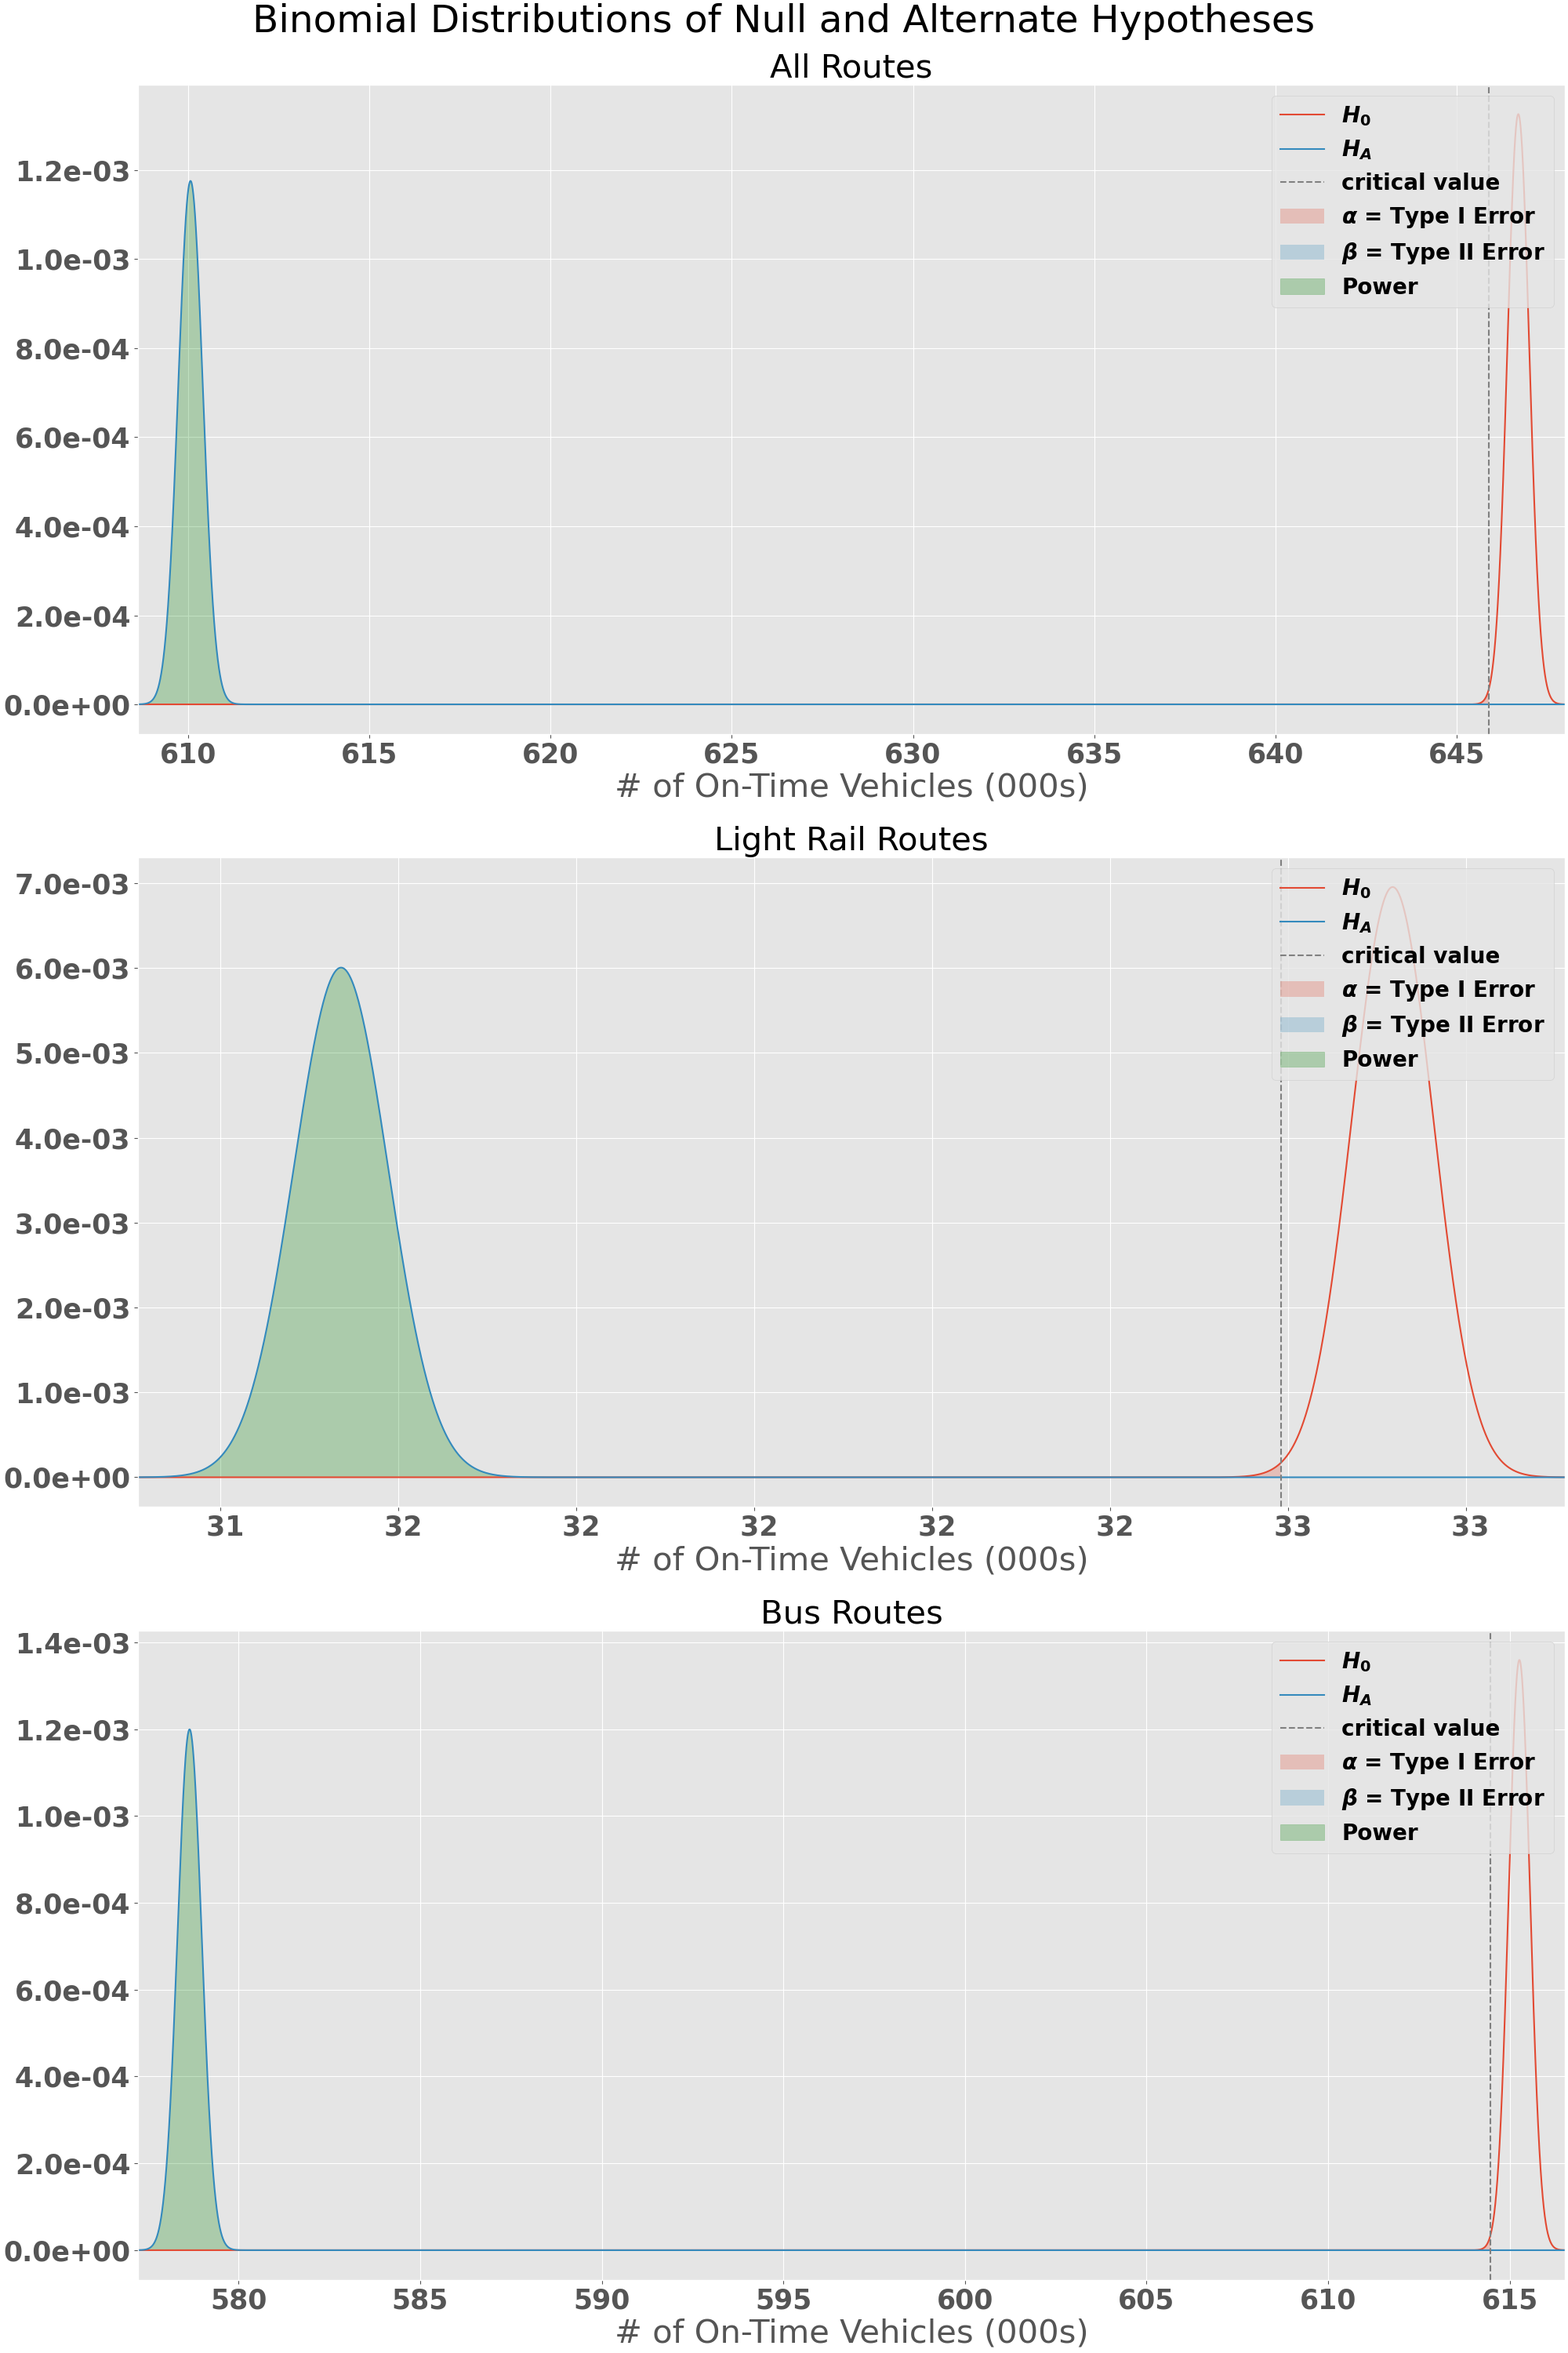
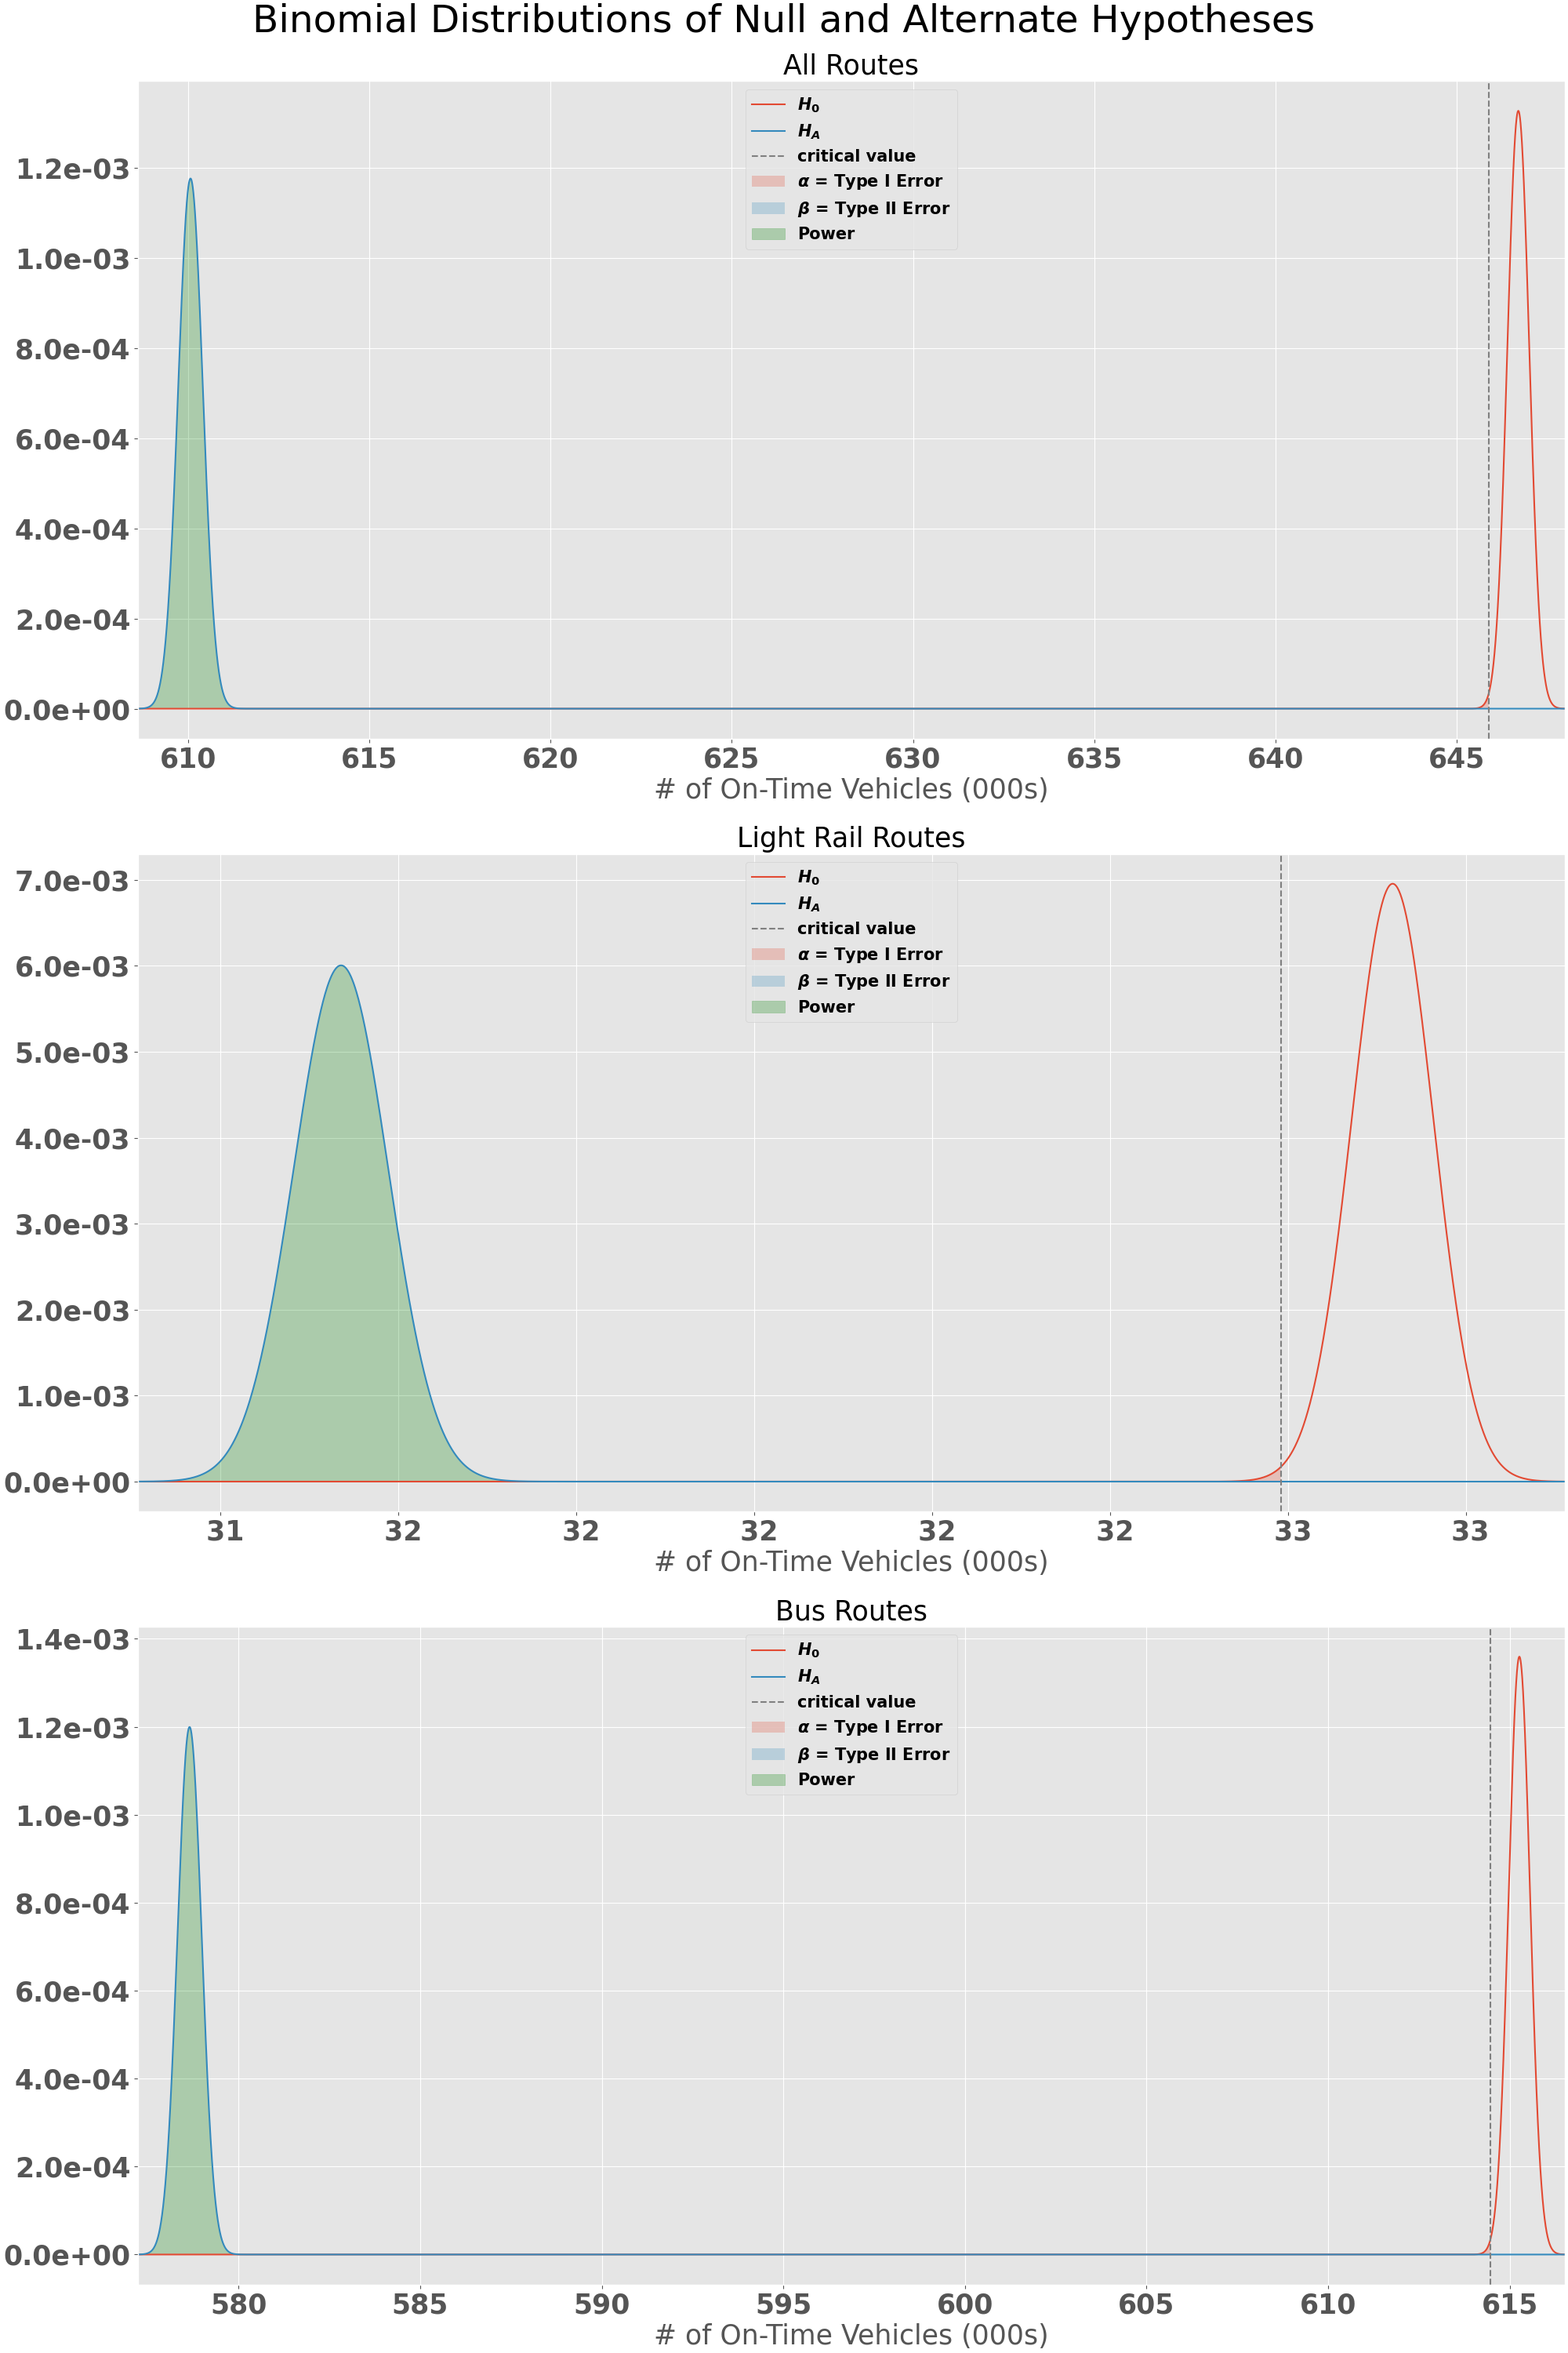
Updated modified alt function to take in a specific null prob value based on other factors.

diff --git a/src/analyze_rtd_data.py b/src/analyze_rtd_data.py
@@ -53,15 +53,32 @@ class RTD_analyze(object):
         self.ontime_stops = sum(self.data.departure_status == 'on_time')
         self.ontime_departure_rate = self.ontime_stops / self.total_stops
 
+    def calculate_p_null(self, alpha):
+        n = self.total_stops
+        p_alt = self.ontime_departure_rate
+        p_null = np.linspace(p_alt, p_alt + 0.1, 100000)
+        alpha = alpha
+        
+        alt_dist = stats.binom(n, p_alt)
+
+        power_dict = {}
+
+        for p in p_null:
+            null_dist = stats.binom(n, p)
+            power_dict[p] = alt_dist.cdf(null_dist.ppf(alpha)) 
+
+        for k,v in power_dict.items():
+            if round(v, 2) == 0.80:
+                self.p_null = k
+        
+        return self.p_null
+
     def plot_null_hypothesis(self, ax, alpha_value, null_percent):
         def thousands(x, pos):
             'The two args are the value and tick position'
             return '%3.0f' % (x/1000)
 
-        if (self.route_type == 'All') & ~(self.route_label == 'All'): 
-            graph_fontsize = 25
-        else:
-            graph_fontsize = 30
+        graph_fontsize = 25
 
         null_dist = stats.binom(n=self.total_stops, p=null_percent)
         x = np.linspace(0, self.total_stops, self.total_stops+1)
@@ -87,15 +104,12 @@ class RTD_analyze(object):
         else:
             ax.set_title(f"{self.route_type.replace('_', ' ').title()} Routes", fontsize=graph_fontsize)
 
-    def plot_alt_hypothesis(self, ax, alpha_value, null_percent):
+    def plot_alt_hypothesis(self, ax, alpha_value, null_percent, legend_loc):
         def thousands(x, pos):
             'The two args are the value and tick position'
             return '%3.0f' % (x/1000)
         
-        if (self.route_type == 'All') & ~(self.route_label == 'All'): 
-            graph_fontsize = 25
-        else:
-            graph_fontsize = 30
+        graph_fontsize = 25
 
         null_dist = stats.binom(n=self.total_stops, p=null_percent)
         alt_dist = stats.binom(n=self.total_stops, p=self.ontime_departure_rate)
@@ -120,8 +134,8 @@ class RTD_analyze(object):
                        ,where= (x < null_dist.ppf(alpha_value))
                        ,alpha=0.25
                        ,color='Green'
-                       ,label='Power')
-        ax.legend(loc='upper right', fontsize=graph_fontsize-10)
+                       ,label='Power') 
+        ax.legend(loc=legend_loc, fontsize=graph_fontsize-10)
         ax.set_xlabel(f"# of On-Time Vehicles (000s)", fontsize=graph_fontsize)
         if (self.route_type == 'All') & ~(self.route_label == 'All'): 
             ax.set_title(f"{self.route_label} Route", fontsize=graph_fontsize)
@@ -169,17 +183,17 @@ if __name__ == '__main__':
     # Original Alt Hypothesis
     fig, axs = plt.subplots(3,1,figsize=set_figsize, constrained_layout=True)
     
-    all_routes.plot_alt_hypothesis(ax=axs[0], alpha_value=alpha_value, null_percent=0.86)
-    light_rail.plot_alt_hypothesis(ax=axs[1], alpha_value=alpha_value, null_percent=0.90)
-    bus.plot_alt_hypothesis(ax=axs[2], alpha_value=alpha_value, null_percent=0.86)
+    all_routes.plot_alt_hypothesis(ax=axs[0], alpha_value=alpha_value, null_percent=0.86, legend_loc='upper center')
+    light_rail.plot_alt_hypothesis(ax=axs[1], alpha_value=alpha_value, null_percent=0.90, legend_loc='upper center')
+    bus.plot_alt_hypothesis(ax=axs[2], alpha_value=alpha_value, null_percent=0.86, legend_loc='upper center')
     fig.suptitle(f"Binomial Distributions of Null and Alternate Hypotheses"
                 ,fontsize=set_fontsize)
     plt.savefig(f"images/original_alt_hypothesis.png")
 
     # Modified Null Hypothesis
-    all_routes_null_p = 0.813
-    light_rail_null_p = 0.868
-    bus_null_p = 0.81
+    all_routes_null_p = all_routes.calculate_p_null(alpha_value)
+    light_rail_null_p = light_rail.calculate_p_null(alpha_value)
+    bus_null_p = bus.calculate_p_null(alpha_value)
 
     fig, axs = plt.subplots(3,1,figsize=set_figsize, constrained_layout=True)
     
@@ -193,9 +207,9 @@ if __name__ == '__main__':
     # Modified Alt Hypothesis
     fig, axs = plt.subplots(3,1,figsize=set_figsize, constrained_layout=True)
     
-    all_routes.plot_alt_hypothesis(ax=axs[0], alpha_value=alpha_value, null_percent=all_routes_null_p)
-    light_rail.plot_alt_hypothesis(ax=axs[1], alpha_value=alpha_value, null_percent=light_rail_null_p)
-    bus.plot_alt_hypothesis(ax=axs[2], alpha_value=alpha_value, null_percent=bus_null_p)
+    all_routes.plot_alt_hypothesis(ax=axs[0], alpha_value=alpha_value, null_percent=all_routes_null_p, legend_loc='upper right')
+    light_rail.plot_alt_hypothesis(ax=axs[1], alpha_value=alpha_value, null_percent=light_rail_null_p, legend_loc='upper right')
+    bus.plot_alt_hypothesis(ax=axs[2], alpha_value=alpha_value, null_percent=bus_null_p, legend_loc='upper right')
     fig.suptitle(f"Binomial Distributions of Null and Alternate Hypotheses"
                 ,fontsize=set_fontsize)
     plt.savefig(f"images/modified_alt_hypothesis.png")
@@ -204,7 +218,6 @@ if __name__ == '__main__':
     top_10_routes = list(all_routes.data.groupby('route_short_name').size().sort_values(ascending=False)[0:10].index)
     alpha_value = 0.01/10
     set_figsize = (15,70)
-    set_fontsize = 25
     plt.rc('xtick',labelsize=15)
     plt.rc('ytick',labelsize=15)
    
@@ -224,7 +237,10 @@ if __name__ == '__main__':
     for idx, route in enumerate(top_10_routes):
         route_data = RTD_analyze(rtd_data, route_label=route)
         route_data.calculate_ontime_departure()
-        route_data.plot_alt_hypothesis(ax=axs[idx], alpha_value=alpha_value, null_percent=0.86)
+        if route == '40':
+            route_data.plot_alt_hypothesis(ax=axs[idx], alpha_value=alpha_value, null_percent=0.86, legend_loc='upper right')
+        else:
+            route_data.plot_alt_hypothesis(ax=axs[idx], alpha_value=alpha_value, null_percent=0.86, legend_loc='upper center')
     
     fig.suptitle(f"Binomial Distributions of Null and Alternate Hypotheses"
                 ,fontsize=set_fontsize)

diff --git a/README.md b/README.md
@@ -8,11 +8,12 @@ The mission of Denver's Regional Transportation District (RTD) is to **provide c
 
 I would like to investigate whether or not they are still meeting this goal and what lines/routes have a higher or lower on-time performance than the entire system as whole. My hypotheses will be:
 
-* $\large H_0 \large$: RTD's Local On-Time Service >= 86%
-* $\large H_A \large$: RTD's Local On-TIme Service < 86%
+$$\large H_0 \text{: RTD's Local On-Time Service >= 86\%} $$
+$$\large H_A \text{: RTD's Local On-TIme Service < 86\%} $$
 
 ## Dataset
 ---
+### GTFS-RT
 My dataset is pulled from [RTD's Public GTFS-RT (General Transit Feed Specification - Realtime Transit) feeds](https://www.rtd-denver.com/business-center/open-spacial-data/gtfs-rt). There are 3 feeds in RTD's GTFS-RT data:
 1. **Alerts**: This feed includes alerts about unforeseen events like route disruptions and stop closures.
 2. **Trips**: This feed includes trip progress and arrival/departure predictions including delays, cancellations, or changed routes.
@@ -177,11 +178,11 @@ For each of our experiments, you can also see that the alternate hypothesis dist
 
 
 ### Modified Null Hypotheses
-Since there is such a drastic difference between the 2019Q3 goal and current state, it might be better to estimate what would be a good goal for RTD to set for their routes? We can use the same statistically analysis to see what on-time service % would still be above the current state but within reach with improvement. I set the Null Hypothesis for each experiment to be:
+Since there is such a drastic difference between the 2019Q3 goal and current state, it might be better to estimate what would be a good goal for RTD to set for their routes? We can use the same statistically analysis to see what on-time service % would still be above the current state but within reach with improvement. For this experiment, I wanted to solve for a Null Probability given my conditions:
 
-$$\large H_{0_{system}}: \text{On Time Service >= 81.35\%}$$ 
-$$\large H_{0_{\text{light rail}}}: \text{On Time Service >= 86\%}$$ 
-$$\large H_{0_{\text{bus}}}: \text{On Time Service >= 81\%}$$ 
+$$\large H_{0_{system}}: \text{On Time Service >= 81.3\%}$$ 
+$$\large H_{0_{\text{light rail}}}: \text{On Time Service >= 86.8\%}$$ 
+$$\large H_{0_{\text{bus}}}: \text{On Time Service >= 81.25\%}$$ 
 
 ![Modified Null Hypothesis](images/modified_null_hypothesis.png)
 
